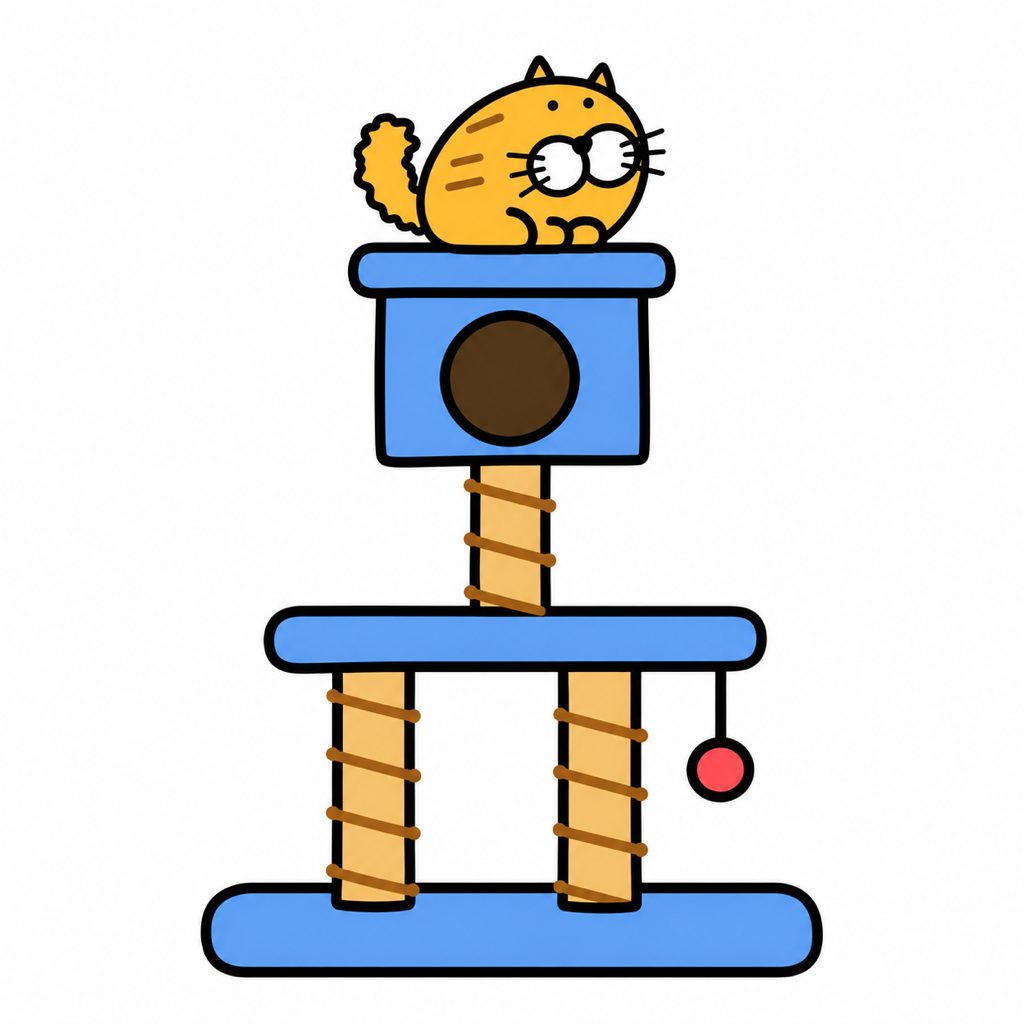
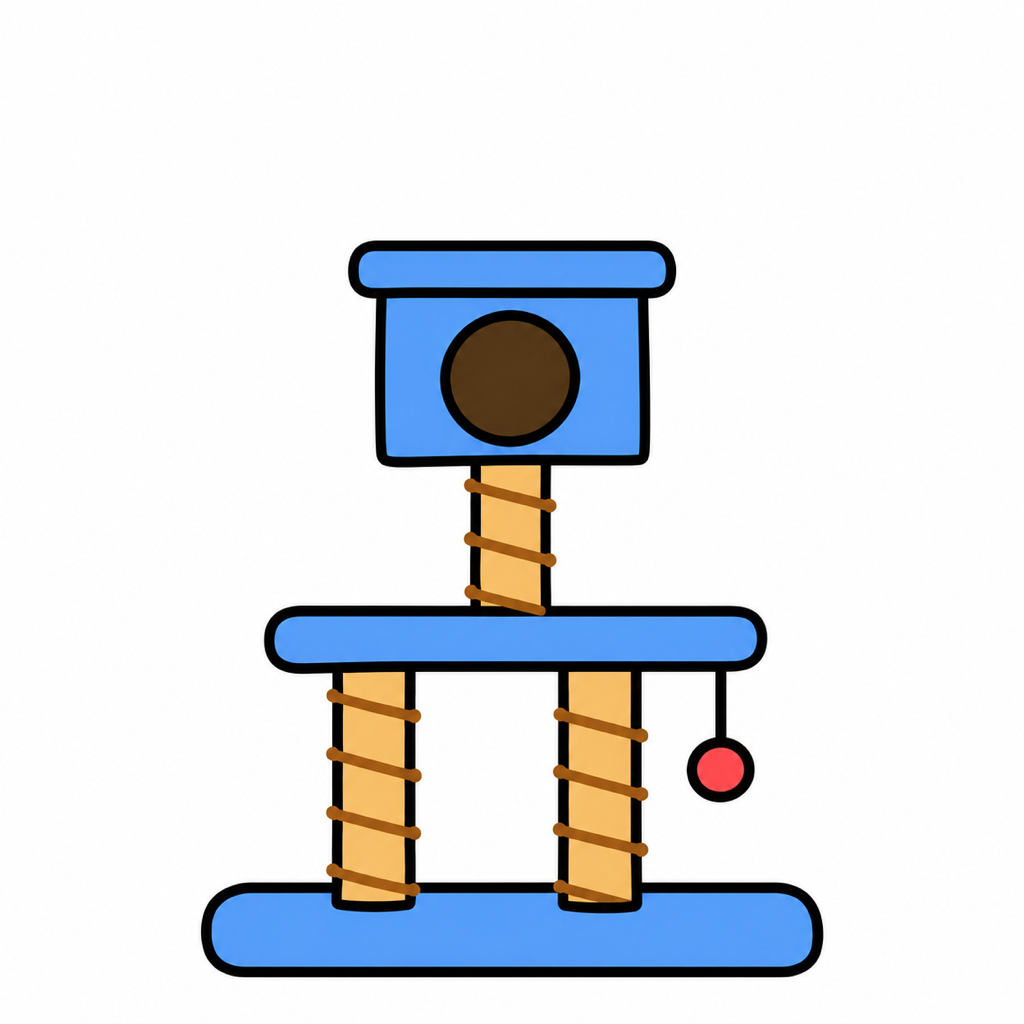
feat: 홈 화면 맨 위 왼쪽 '다른 게임 플레이하기', 캣타워 아이콘 고양이 지움, 연속발사 고양이 다리 4개로

diff --git a/app/src/main/java/com/jamcat/nayngapo/screen/LobbyScreen.kt b/app/src/main/java/com/jamcat/nayngapo/screen/LobbyScreen.kt
@@ -55,6 +55,8 @@ class LobbyScreen(private val gameView: GameView, private val mapOnly: Boolean =
     private var timer = 0f
     private var pressedId: String? = null
     private val charRect = RectF()
+    /** 맨 위 왼쪽 '다른 게임 플레이하기' → 게임 고르기 (대표님 2026-10-25 「홈 화면에서는 다른 게임 플레이하기 버튼이 제일 위 왼쪽에 있어」) */
+    private val otherGameRect = RectF()
 
     // 미구현 기능을 눌렀을 때 잠깐 떠오르는 쪽지
     private var noticeText = ""
@@ -183,6 +185,12 @@ class LobbyScreen(private val gameView: GameView, private val mapOnly: Boolean =
         canvas.drawRoundRect(charRect, 14f, 14f, borderPaint)
         labelPaint.textSize = h * 0.032f
         canvas.drawTr("🙂 캐릭터 변경", charRect.centerX(), charRect.centerY() + h * 0.011f, labelPaint)
+
+        otherGameRect.set(0.015f * w, 0.012f * h, 0.245f * w, 0.088f * h)
+        canvas.drawRoundRect(otherGameRect, 14f, 14f, if (pressedId == "other_game") panelPressPaint else panelPaint)
+        canvas.drawRoundRect(otherGameRect, 14f, 14f, borderPaint)
+        labelPaint.textSize = h * 0.032f
+        canvas.drawTr("🎮 다른 게임 플레이하기", otherGameRect.centerX(), otherGameRect.centerY() + h * 0.011f, labelPaint)
 
         drawNotice(canvas, w, h)
     }
@@ -455,7 +463,8 @@ class LobbyScreen(private val gameView: GameView, private val mapOnly: Boolean =
         if (mapOnly) return true
 
         when (event.actionMasked) {
-            MotionEvent.ACTION_DOWN -> pressedId = if (charRect.contains(event.x, event.y)) "char" else slotAt(event.x, event.y, w, h)?.id
+            MotionEvent.ACTION_DOWN -> pressedId = if (otherGameRect.contains(event.x, event.y)) "other_game"
+                else if (charRect.contains(event.x, event.y)) "char" else slotAt(event.x, event.y, w, h)?.id
             MotionEvent.ACTION_UP -> {
                 // 지도 쪽 넘기기 화살표를 먼저, 그다음 돌 — 돌 하나가 스테이지 하나
                 val stage = stageAt(event.x, event.y)
@@ -465,6 +474,8 @@ class LobbyScreen(private val gameView: GameView, private val mapOnly: Boolean =
                     mapPage++
                 } else if (stage != null) {
                     enterStage(stage)
+                } else if (otherGameRect.contains(event.x, event.y)) {
+                    if (pressedId == "other_game") gameView.showGameSelect()
                 } else if (charRect.contains(event.x, event.y)) {
                     if (pressedId == "char") gameView.showCharacterSelect()
                 } else {
